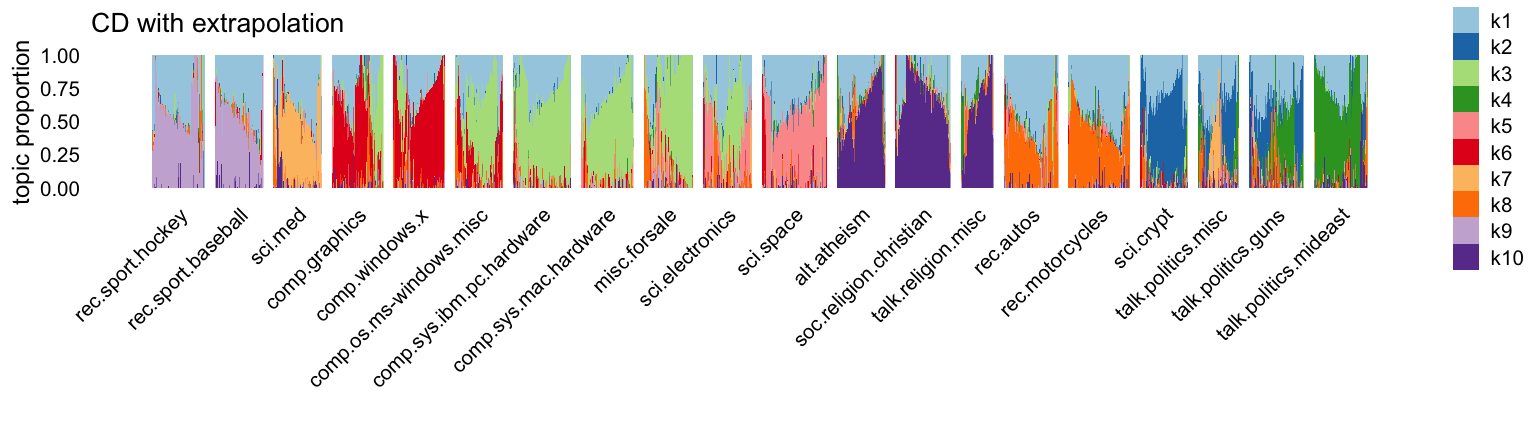
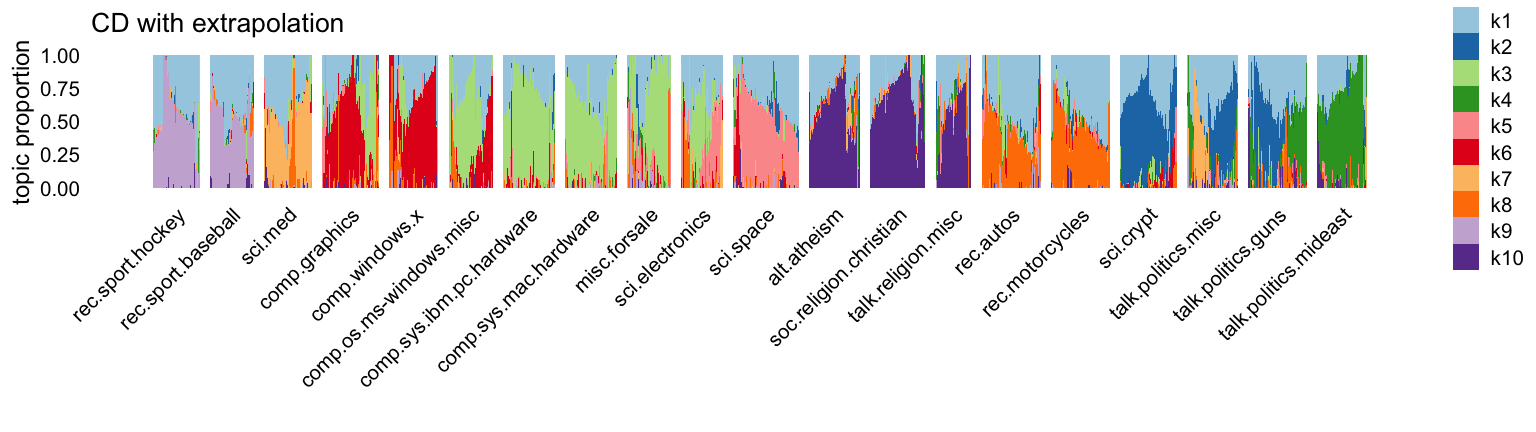
Small fix to the structure plots in the newsgroups_more analysis.

Changed region(s): [[0.0938, 0.1204, 0.9062, 0.4514], [0.0312, 0.4815, 0.875, 0.9028]]

diff --git a/docs/newsgroups_more.html b/docs/newsgroups_more.html
@@ -433,15 +433,15 @@ project makes it easier to run your code on other machines.</p>
 <div class="panel panel-default">
 <div class="panel-heading">
 <p class="panel-title">
-<a data-toggle="collapse" data-parent="#workflowr-checks" href="#strongRepositoryversionstrongahrefhttpsgithubcomstephenslabfastTopicsexperimentstreefbfb49de6bf1dbdab596484b845b796118b9a04btargetblankfbfb49da">
+<a data-toggle="collapse" data-parent="#workflowr-checks" href="#strongRepositoryversionstrongahrefhttpsgithubcomstephenslabfastTopicsexperimentstree27deae0706e3e4b6be81ea3dd34ea5972474ce0dtargetblank27deae0a">
 <span class="glyphicon glyphicon-ok text-success"
 aria-hidden="true"></span> <strong>Repository version:</strong>
-<a href="https://github.com/stephenslab/fastTopics-experiments/tree/fbfb49de6bf1dbdab596484b845b796118b9a04b" target="_blank">fbfb49d</a>
+<a href="https://github.com/stephenslab/fastTopics-experiments/tree/27deae0706e3e4b6be81ea3dd34ea5972474ce0d" target="_blank">27deae0</a>
 </a>
 </p>
 </div>
 <div
[2 lines of base64/hex data omitted]
 class="panel-collapse collapse">
 <div class="panel-body">
 <p>
@@ -451,7 +451,7 @@ reproducibility.
 </p>
 <p>
 The results in this page were generated with repository version
-<a href="https://github.com/stephenslab/fastTopics-experiments/tree/fbfb49de6bf1dbdab596484b845b796118b9a04b" target="_blank">fbfb49d</a>.
+<a href="https://github.com/stephenslab/fastTopics-experiments/tree/27deae0706e3e4b6be81ea3dd34ea5972474ce0d" target="_blank">27deae0</a>.
 See the <em>Past versions</em> tab to see a history of the changes made
 to the R Markdown and HTML files.
 </p>
@@ -536,6 +536,40 @@ Message
 </tr>
 </thead>
 <tbody>
+<tr>
+<td>
+Rmd
+</td>
+<td>
+<a href="https://github.com/stephenslab/fastTopics-experiments/blob/27deae0706e3e4b6be81ea3dd34ea5972474ce0d/analysis/newsgroups_more.Rmd" target="_blank">27deae0</a>
+</td>
+<td>
+Peter Carbonetto
+</td>
+<td>
+2025-07-01
+</td>
+<td>
+wflow_publish("newsgroups_more.Rmd", verbose = T, view = F)
+</td>
+</tr>
+<tr>
+<td>
+html
+</td>
+<td>
+<a href="https://rawcdn.githack.com/stephenslab/fastTopics-experiments/2341f05da33bb9e5375d183a8ea352b39c78acf4/docs/newsgroups_more.html" target="_blank">2341f05</a>
+</td>
+<td>
+Peter Carbonetto
+</td>
+<td>
+2025-07-01
+</td>
+<td>
+Rebuilt the newsgroups_more analysis with the latest version of
+</td>
+</tr>
 <tr>
 <td>
 html
@@ -759,7 +793,7 @@ cor(as.vector(fit2$L),as.vector(lda2@gamma))
 <p>Let’s now examine the results using Structure plots. Here are the EM
 estimates:</p>
 <pre class="r"><code>n    &lt;- nrow(fit1$L)
-rows &lt;- sample(n,2000)
+rows &lt;- sample(n,1000)
 L1   &lt;- select_loadings(fit1,rows)$L
 topics &lt;- factor(topics,
                  c(&quot;rec.sport.hockey&quot;,
@@ -786,7 +820,7 @@ topic_ordering &lt;- c(2:10,1)
 topic_colors &lt;- c(&quot;#a6cee3&quot;,&quot;#1f78b4&quot;,&quot;#b2df8a&quot;,&quot;#33a02c&quot;,&quot;#fb9a99&quot;,
                   &quot;#e31a1c&quot;,&quot;#fdbf6f&quot;,&quot;#ff7f00&quot;,&quot;#cab2d6&quot;,&quot;#6a3d9a&quot;)
 p1 &lt;- structure_plot(L1,topics = 1:10,grouping = topics[rows],
-                     colors = topic_colors,gap = 20) +
+                     colors = topic_colors,gap = 10) +
   ggtitle(&quot;EM without extrapolation&quot;) +
   theme(plot.title = element_text(face = &quot;plain&quot;,size = 10))
 p1</code></pre>
@@ -813,6 +847,17 @@ Date
 </tr>
 </thead>
 <tbody>
+<tr>
+<td>
+<a href="https://github.com/stephenslab/fastTopics-experiments/blob/2341f05da33bb9e5375d183a8ea352b39c78acf4/docs/figure/newsgroups_more.Rmd/structure-plot-em-1.png" target="_blank">2341f05</a>
+</td>
+<td>
+Peter Carbonetto
+</td>
+<td>
+2025-07-01
+</td>
+</tr>
 <tr>
 <td>
 <a href="https://github.com/stephenslab/fastTopics-experiments/blob/2b1b3d5171792963d78a06f627559b46e732403c/docs/figure/newsgroups_more.Rmd/structure-plot-em-1.png" target="_blank">2b1b3d5</a>
@@ -842,7 +887,7 @@ Peter Carbonetto
 <p>And here are the CD estimates:</p>
 <pre class="r"><code>L2 &lt;- select_loadings(fit2,rows)$L
 p2 &lt;- structure_plot(L2,topics = 1:10,grouping = topics[rows],
-                     colors = topic_colors,gap = 20) +
+                     colors = topic_colors,gap = 10) +
   ggtitle(&quot;CD with extrapolation&quot;) +
   theme(plot.title = element_text(face = &quot;plain&quot;,size = 10))
 p2</code></pre>
@@ -869,6 +914,17 @@ Date
 </tr>
 </thead>
 <tbody>
+<tr>
+<td>
+<a href="https://github.com/stephenslab/fastTopics-experiments/blob/2341f05da33bb9e5375d183a8ea352b39c78acf4/docs/figure/newsgroups_more.Rmd/structure-plot-cd-1.png" target="_blank">2341f05</a>
+</td>
+<td>
+Peter Carbonetto
+</td>
+<td>
+2025-07-01
+</td>
+</tr>
 <tr>
 <td>
 <a href="https://github.com/stephenslab/fastTopics-experiments/blob/d30514992ab6944f806e1ef754ca109f37f90d15/docs/figure/newsgroups_more.Rmd/structure-plot-cd-1.png" target="_blank">d305149</a>
